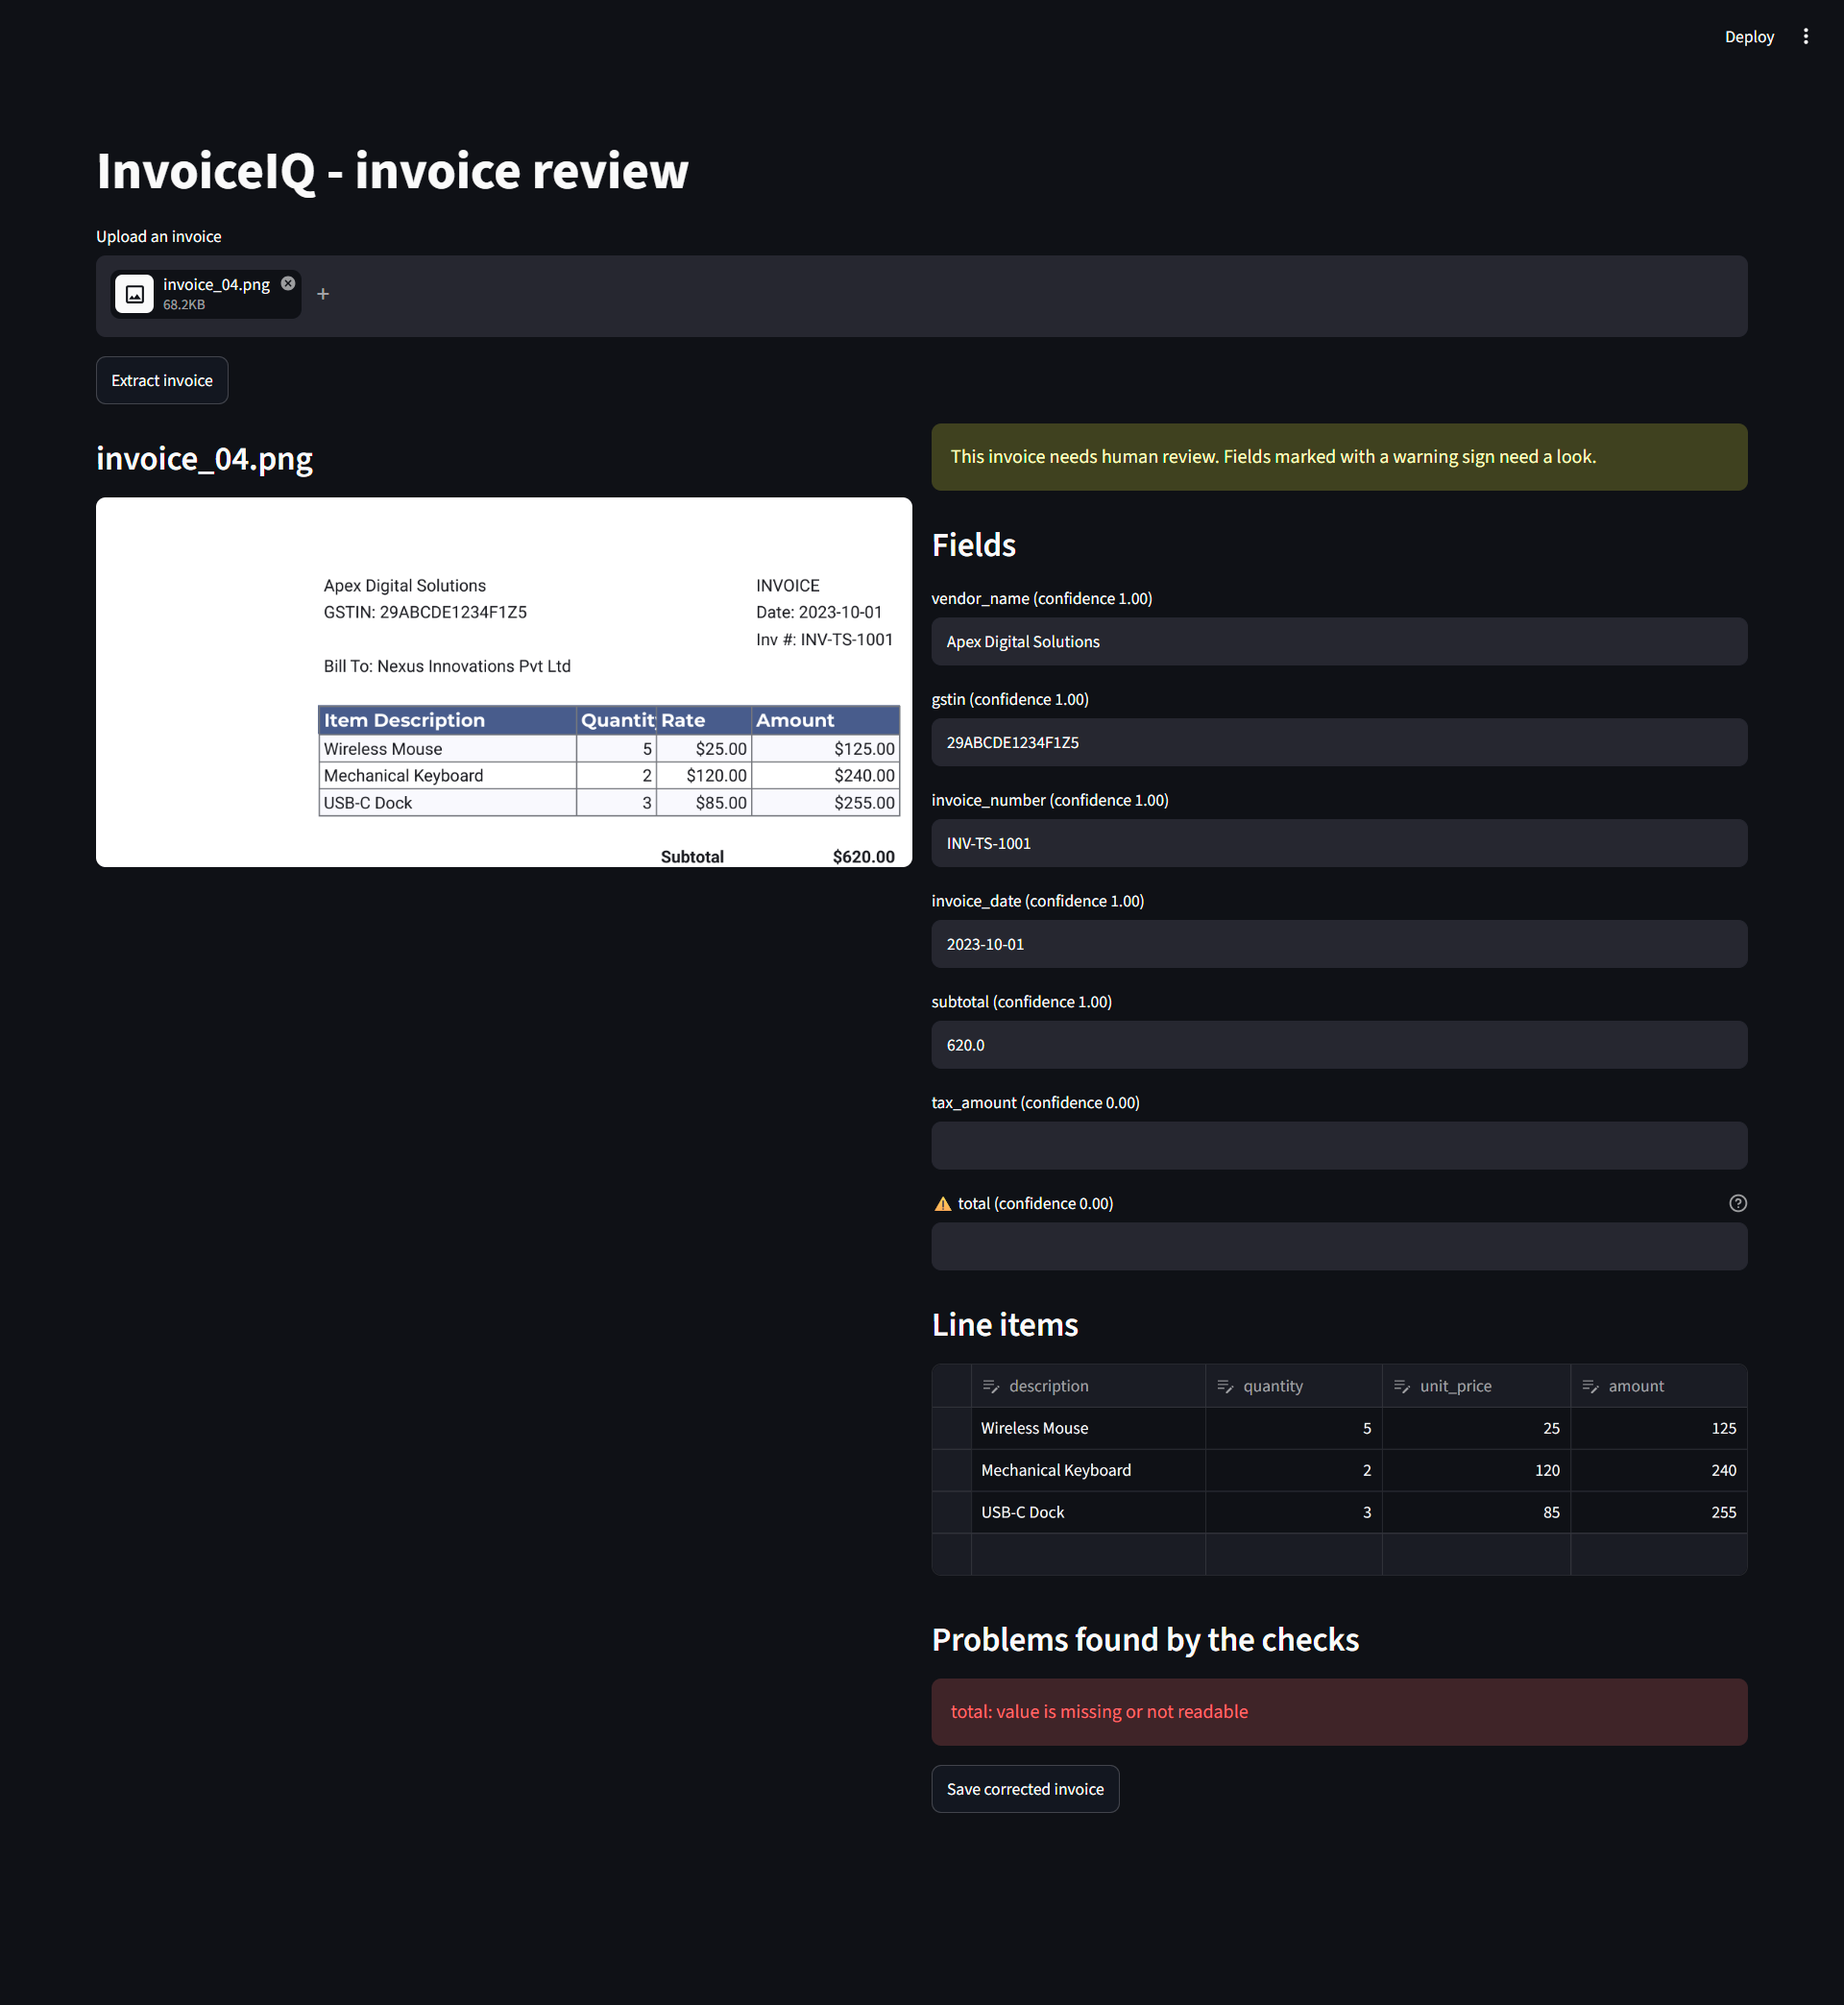
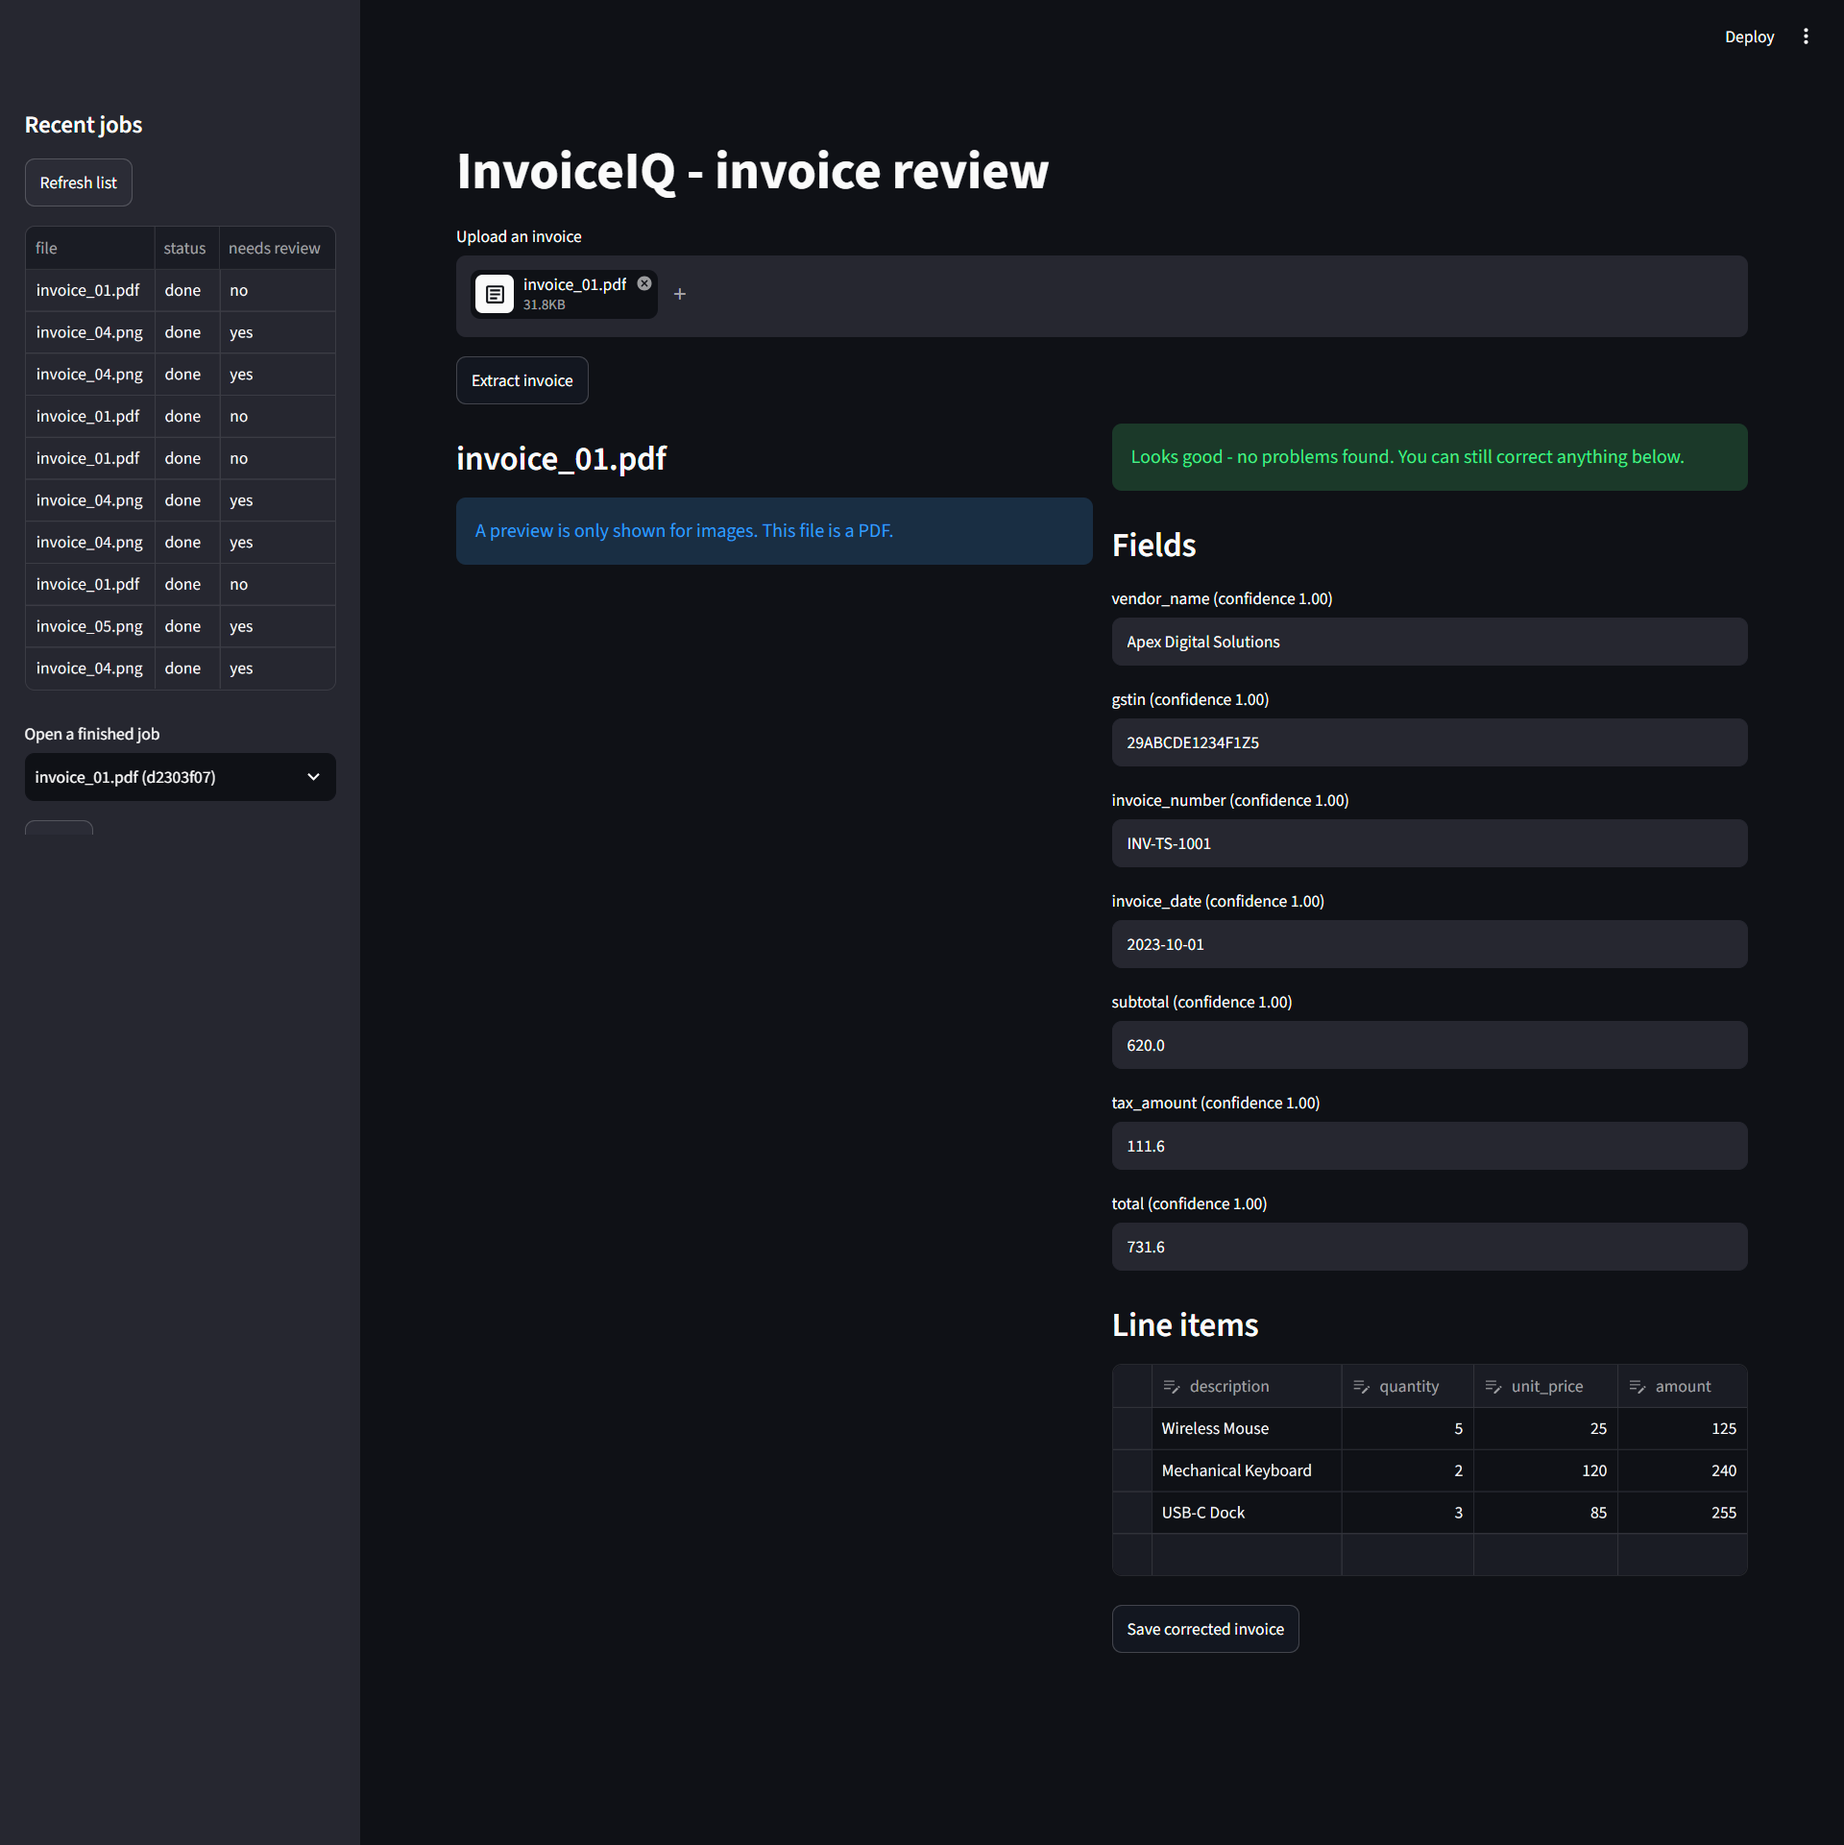
Week 3: PostgreSQL, Redis worker, retries, health checks, new README

diff --git a/README.md b/README.md
@@ -1,6 +1,6 @@
 # InvoiceIQ
 
-AI-powered invoice extraction with a human-review safety net. Upload an invoice (PDF, PNG or JPG) and get structured JSON back, with a confidence score for every field and a clear flag when a person should double-check it.
+AI-powered invoice extraction with a human-review safety net. Upload an invoice (PDF, PNG or JPG) and get structured JSON back, with a confidence score for every field and a clear flag when a person should double-check it. Invoices are processed in the background by a worker, so uploads never make the user wait.
 
 ![Review screen](docs/review-screen.png)
 
@@ -8,18 +8,42 @@ AI-powered invoice extraction with a human-review safety net. Upload an invoice 
 - Reads invoices with a vision-capable AI model (Google Gemini) and returns clean JSON
 - Returns `null` for anything missing or cut off, instead of guessing
 - Checks the AI's answer with plain code (maths, GSTIN, tax rate, date, missing fields)
-- Combines those checks with the AI's own confidence scores to set `needs_review`
-- Lets a person correct the flagged fields in a review screen and saves both the AI's answer and the corrected version
+- Combines those checks with the AI's confidence scores to set `needs_review`
+- Processes uploads as background jobs (Redis and Celery), with retries when the AI service is busy
+- Lets a person correct flagged fields in a review screen, and stores both the AI's answer and the corrected version in PostgreSQL
 
-## How it works
+## Architecture
 ```mermaid
 flowchart LR
     U[Review screen - Streamlit] -->|upload invoice| A[FastAPI]
-    A -->|PDF or image| G[Gemini API]
-    G -->|JSON and confidence| A
-    A --> V[Validators and review flag]
-    V --> A
-    A -->|save original and corrected| D[(SQLite)]
+    A -->|create job| D[(PostgreSQL)]
+    A -->|send task| R[(Redis queue)]
+    R --> W[Celery worker]
+    W -->|PDF or image| G[Gemini API]
+    G -->|JSON and confidence| W
+    W -->|checked result| D
+    U -->|poll job status| A
+```
+
+How one invoice flows:
+```mermaid
+sequenceDiagram
+    participant U as Review screen
+    participant A as API
+    participant R as Redis
+    participant W as Worker
+    participant G as Gemini
+    participant D as PostgreSQL
+    U->>A: POST /jobs (invoice file)
+    A->>D: create job (queued)
+    A->>R: send task
+    A-->>U: 202 and job id
+    W->>R: take task
+    W->>G: read invoice
+    G-->>W: JSON and confidence
+    W->>D: store checked result (done)
+    U->>A: GET /jobs/{id} every 2 seconds
+    A-->>U: status, then the result
 ```
 
 ## Why the AI is not trusted blindly
@@ -35,72 +59,81 @@ The AI can misread an invoice or invent values for parts it cannot see. So every
 | Missing fields | a required value is empty |
 | AI confidence | the model itself says it is unsure (below 0.8) |
 
-Rules and confidence catch different mistakes. For example, a rule catches the half-visible date `2023-1`, while low confidence catches a cut-off invoice number that looks valid.
+Rules and confidence catch different mistakes. A rule catches a half-visible date like `2023-1`, while low confidence catches a cut-off invoice number that looks valid.
+
+## Reliability
+- **Retries:** a busy or rate-limited AI service is retried up to 3 times with growing waits. Permanent errors (such as a wrong API key) fail immediately.
+- **No lost jobs:** tasks wait in Redis, so a job uploaded while the worker is down is processed when it returns.
+- **Health checks:** `/health/ready` checks the database and Redis, and Docker uses it to mark the API healthy or unhealthy.
+- **Tests:** about 60 automated tests run with a fake AI, so they need no API key and no internet.
+- **Smoke test:** `smoke_test.py` checks a running system from end to end.
+
+![Running containers](docs/compose-ps.png)
 
 ## API
 | Endpoint | Purpose |
 |---|---|
 | `GET /health` | Is the service running? |
-| `POST /extract` | Upload an invoice, get the reviewed result |
+| `GET /health/ready` | Are the database and Redis reachable? |
+| `POST /jobs` | Upload an invoice, get a job id (202) |
+| `GET /jobs/{id}` | Job status, and the reviewed result when done |
+| `GET /jobs` | Recent jobs (optional `status` and `limit`) |
+| `POST /extract` | Upload and wait for the result in one call |
 | `POST /invoices` | Save an original and a corrected invoice |
 | `GET /invoices` | List saved invoices |
 
-Shortened example response from `POST /extract` for a cut-off invoice:
-```json
-{
-  "invoice": {
-    "vendor_name": "Apex Digital Solutions",
-    "invoice_number": "INV-TS-1001",
-    "subtotal": 620.0,
-    "tax_amount": null,
-    "total": null
-  },
-  "problems": [{"field": "total", "message": "value is missing or not readable"}],
-  "low_confidence_fields": [],
-  "needs_review": true
-}
+## Run with Docker (recommended)
+```bash
+cp .env.example .env
+# edit .env: add your Gemini API key and choose a database password
+docker compose up --build
+```
+The API is at http://localhost:8000/docs. Start the review screen in a second terminal:
+```bash
+pip install -r requirements-ui.txt
+streamlit run ui/review_app.py
 ```
 
-## Run locally
+## Run without Docker
 ```bash
 python -m venv .venv
 .\.venv\Scripts\Activate.ps1
 pip install -r requirements.txt
 uvicorn app.main:app --reload
 ```
-Create a `.env` file containing `GEMINI_API_KEY=your_key_here`, then open http://127.0.0.1:8000/docs
+This uses a local SQLite file and runs jobs inside the API, so Redis and the worker are not needed.
 
-Review screen (in a second terminal):
-```bash
-pip install -r requirements-ui.txt
-streamlit run ui/review_app.py
-```
+## Configuration
+| Variable | Used by | Meaning |
+|---|---|---|
+| `GEMINI_API_KEY` | API, worker | Your Google AI key |
+| `POSTGRES_PASSWORD` | database, compose | Local database password |
+| `DATABASE_URL` | API, worker | Set by compose. Defaults to a local SQLite file |
+| `REDIS_URL` | API, worker | Set by compose |
+| `JOB_RUNNER` | API | `celery` (separate worker) or `background` (default) |
+| `UPLOAD_DIR` | API, worker | Where uploads wait until processed |
+| `API_URL` | review screen | Address of the API |
 
-## Run with Docker
-```bash
-docker build -t invoiceiq-api .
-docker run --rm -p 8000:8000 --env-file .env invoiceiq-api
-```
-
-## Run the tests
+## Tests
 ```bash
 pip install -r requirements-dev.txt
 pytest
+python smoke_test.py   # needs the system running; uses the real AI
 ```
-The tests use a fake AI, so they need no API key and no internet.
 
 ## Project structure
 ```
-app/        API, AI extraction, validators, review logic, storage
+app/        API, AI extraction, validators, review logic, jobs, worker, storage
 ui/         Streamlit review screen
 tests/      Unit and API tests
 samples/    Fake invoices for testing
+docs/       Screenshots
 ```
 
-## Roadmap
-- Background job queue and PostgreSQL
-- Accuracy benchmark on a labelled set of invoices
-- Automated tests and image builds with GitHub Actions
+## Status and roadmap
+Accuracy has not been measured on a labelled set yet. Next:
+- Accuracy benchmark on labelled invoices
+- GitHub Actions: automatic tests and image builds
 - Public deployment
 
 All sample invoices are fake.

diff --git a/notes.md b/notes.md
@@ -5,3 +5,13 @@
 3. Decision: I use both rules and the AI's confidence. Rules caught the incomplete date; low confidence caught a cut-off invoice number that looked valid.
 4. Things that broke: Google retired the model I used (I moved the name to one config line), the service was overloaded at times (I added retries), and tests failed without an API key (I made the AI client load only when needed).
 5. Next: a job queue, PostgreSQL, an accuracy benchmark, automated CI and a public deployment.
+
+## Week 3 notes
+
+- Moved from SQLite to PostgreSQL with SQLAlchemy. The same code runs on SQLite in tests and Postgres in Docker.
+- Slow AI work moved out of the API into a Celery worker with a Redis queue. Uploads answer instantly with a job id and the screen polls for the result.
+- Retries: a busy AI service is retried with growing waits, but a wrong API key fails right away, because retrying a permanent error only wastes time.
+- A job uploaded while the worker was stopped was processed after the worker restarted, because tasks wait in the queue.
+- Health checks: /health only says the program is alive, /health/ready checks the database and Redis.
+- Tests use a fake AI and temporary databases, so they need no key and no internet (about 60 tests).
+- invoiceiq-app image size: 373MB
